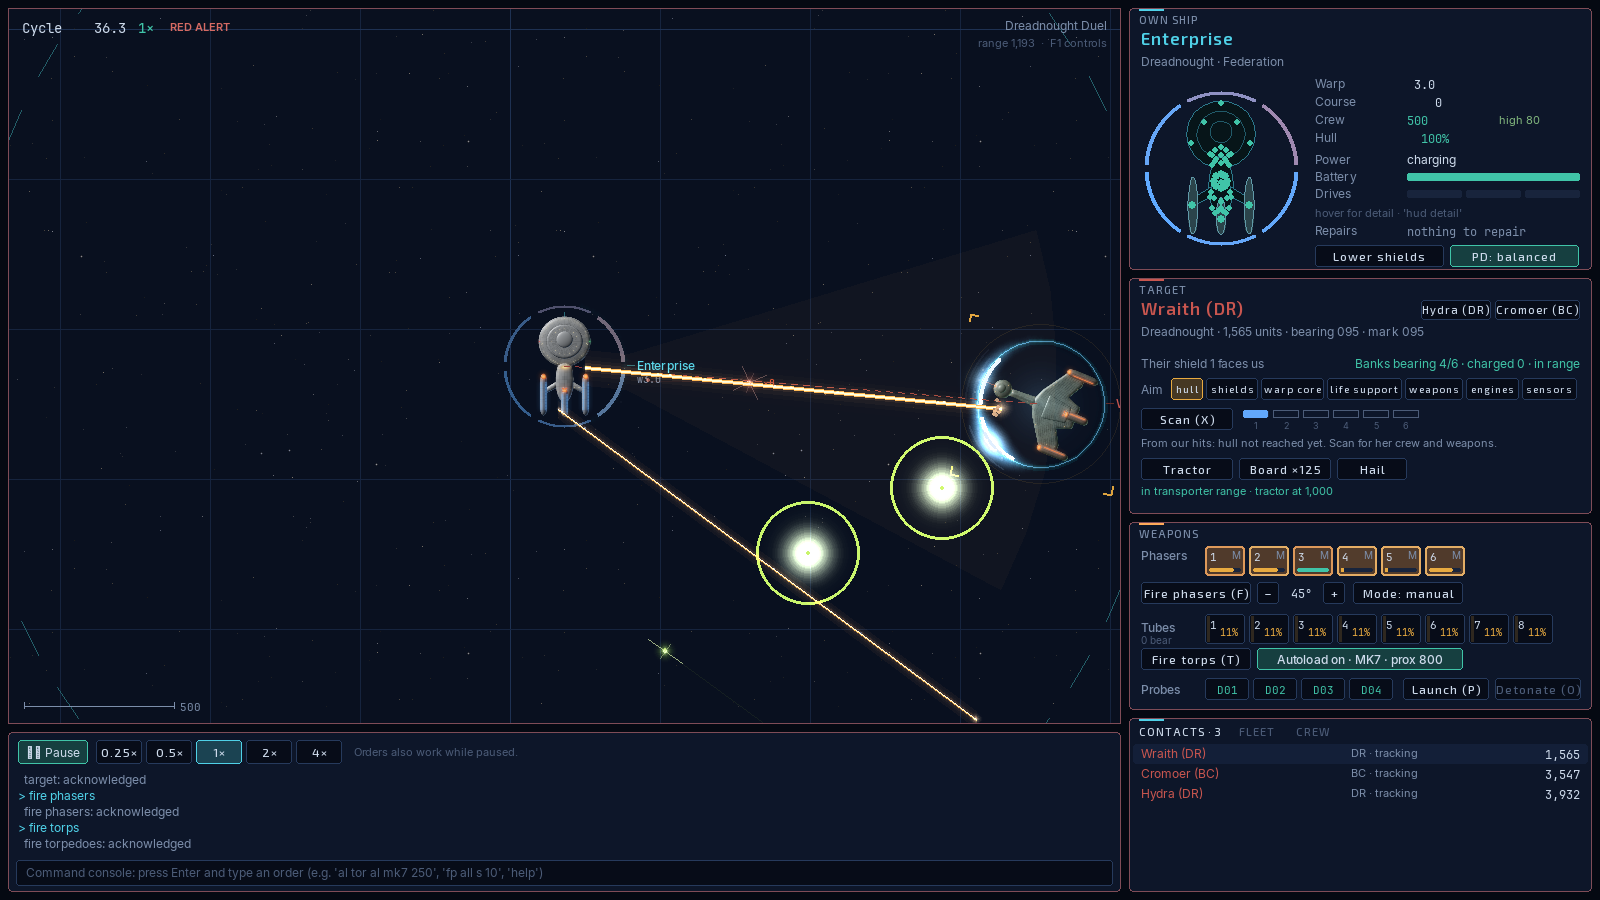
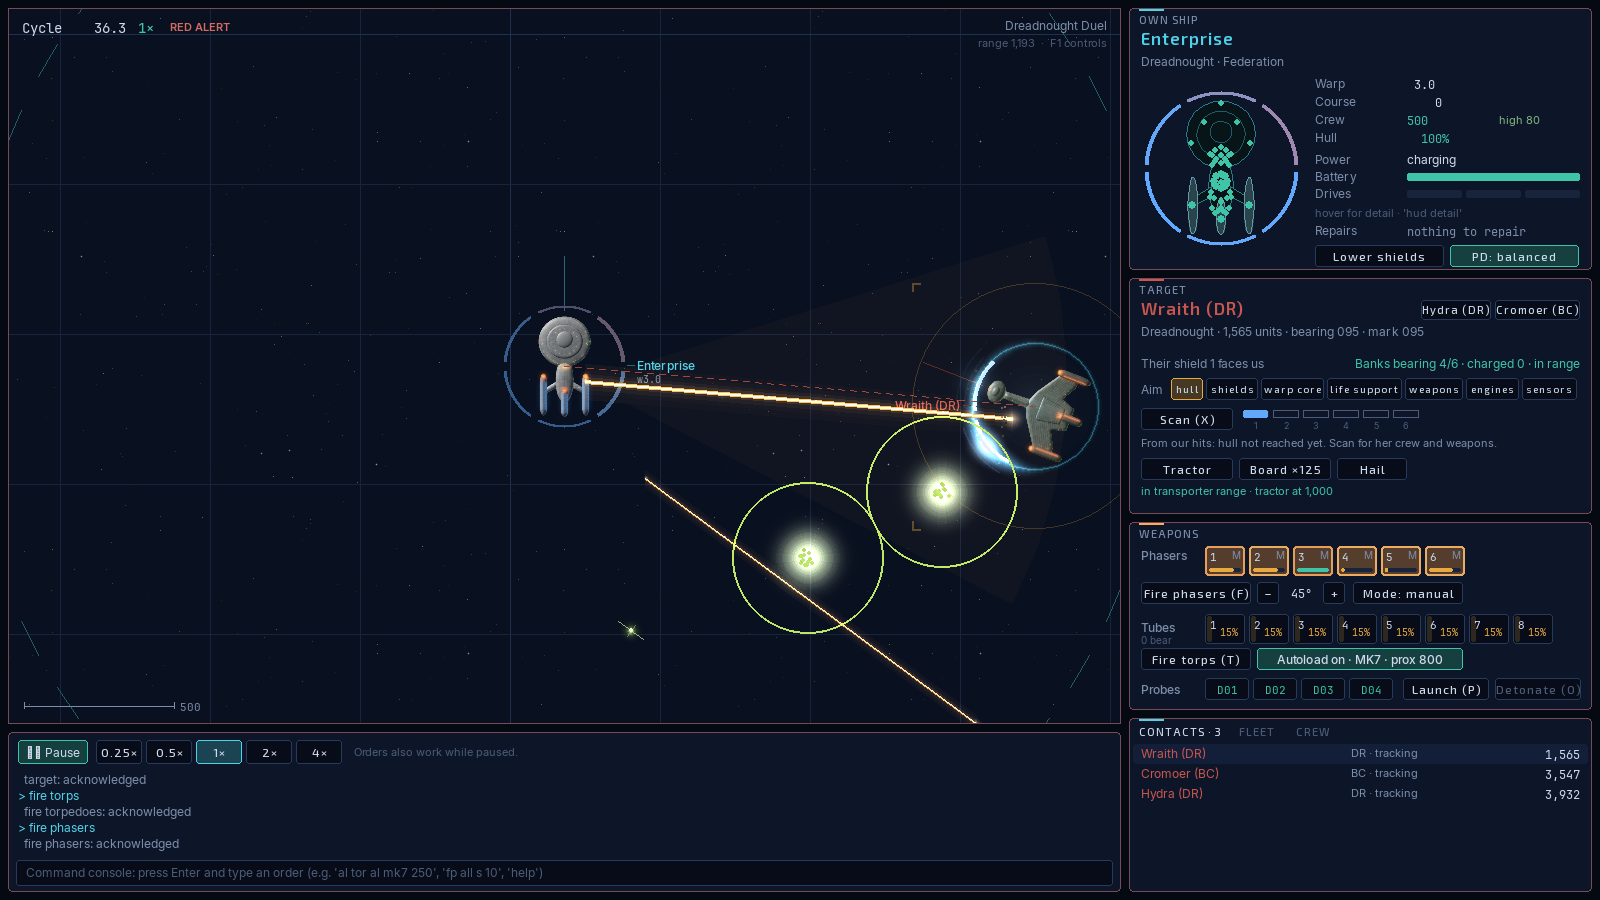
Docs: README and screenshots for the new Klingon art and map silhouettes
Retook close-quarters, torpedoes, hud-detail, fleet-action and the fleet gallery with
the redrawn Klingons, the bird-of-prey escort and the zoomed-out silhouettes; README
describes the silhouettes and the Klingon line.

diff --git a/README.md b/README.md
@@ -79,7 +79,7 @@ Every battle starts paused. **Space** runs and pauses the clock, and **[** and *
 
 Left-click a contact (or press **Tab**) to target it, and **R** cycles precision aim through propulsion, weapons, shields, power and sensors. Right-click the map to steer there, Shift + right-click a ship to pursue it, **W**/**S** change warp and **A**/**D** turn. **F** fires phasers, **T** torpedoes, **P** launches a probe and **X** scans the target. In the weapons panel, each weapon group can be Manual, Assisted or Automatic, and the **PD** button sets the point-defense doctrine.
 
-The map shows what your sensors know and nothing more. A phaser bank lights up before it fires, then its beam races to the target and stops on the shield, or reaches the hull and throws sparks if it got through; Klingon and Orion disruptors fly as bolts. Torpedoes are drawn each nation's own way (a turning photon star, a harsh disruptor flare, a wobbling plasma ball) and leave a stream of sparks behind them, and an enemy round heading for you is ringed with its fuse radius. A shield facing that gives way bursts into sparks, breached hulls vent, shields ripple along the struck arc, ships leave engine wakes, shields light up where they're struck, hull hits burst into fire, a destroyed ship blows apart in a flash, fireball and shockwave with her hull torn into burning pieces, and the panel borders pulse red at red alert. When you pick a target, its brackets swing in from wide and close on it, then pulse gently while the lock holds. Zoom right in on a Federation heavy cruiser and the map swaps the outline for the same lit, plated ship as the menu; every other class, the Enterprise's Dreadnought included, has lit art of its own.
+The map shows what your sensors know and nothing more. A phaser bank lights up before it fires, then its beam races to the target and stops on the shield, or reaches the hull and throws sparks if it got through; Klingon and Orion disruptors fly as bolts. Torpedoes are drawn each nation's own way (a turning photon star, a harsh disruptor flare, a wobbling plasma ball) and leave a stream of sparks behind them, and an enemy round heading for you is ringed with its fuse radius. A shield facing that gives way bursts into sparks, breached hulls vent, shields ripple along the struck arc, ships leave engine wakes, shields light up where they're struck, hull hits burst into fire, a destroyed ship blows apart in a flash, fireball and shockwave with her hull torn into burning pieces, and the panel borders pulse red at red alert. When you pick a target, its brackets swing in from wide and close on it, then pulse gently while the lock holds. Zoomed out, every ship is a clean, solid silhouette you can recognise at a glance (a Klingon's pod on its long boom, a bird-of-prey's spread wings), with her speed line running ahead of her bow. Zoom right in on a Federation heavy cruiser and the map swaps the silhouette for the same lit, plated ship as the menu; every other class, the Enterprise's Dreadnought included, has lit art of its own.
 
 ![A phaser beam stops on the Wraith's shield while point defense lances a Klingon round; the rounds coming for us are ringed with their fuse radius](docs/screenshots/torpedoes.png)
 
@@ -185,7 +185,7 @@ After each stop your officers write up their stations, each captain reports on t
 
 ### The ships
 
-Every class in the game, Federation, Klingon, Romulan and Orion, is drawn as a lit model: plated hulls with panel lines, lit windows, glowing nacelles and impulse engines, and the light always falling from the same side as she turns. You see them in the squadron screens and on the tactical map once you zoom in close; zoomed out, they go back to clean outlines. Each picture is built from the same hull layout the game uses for weapon arcs and system damage, so what you see is where the phasers fire from and where the hits land.
+Every class in the game, Federation, Klingon, Romulan and Orion, is drawn as a lit model: plated hulls with panel lines, lit windows, glowing nacelles and impulse engines, and the light always falling from the same side as she turns. You see them in the squadron screens and on the tactical map once you zoom in close; zoomed out, each becomes a single smooth silhouette of the same shape. The Klingon line follows the classic plan, a broad command pod on a long boom ahead of swept wings and nacelles, and their escort is a bird-of-prey with a disruptor cannon at each wingtip. Each picture is built from the same hull layout the game uses for weapon arcs and system damage, so what you see is where the phasers fire from and where the hits land.
 
 ![Every ship class in the game](docs/screenshots/fleet.png)
 
